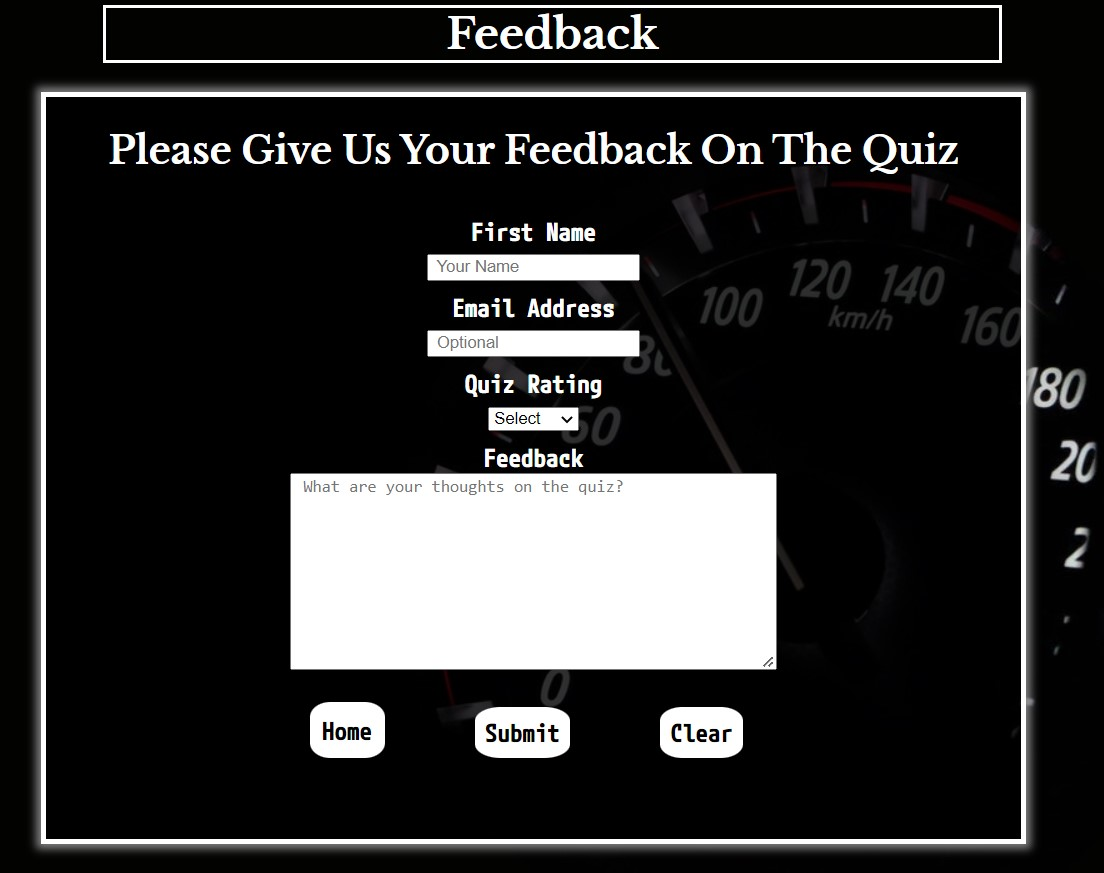
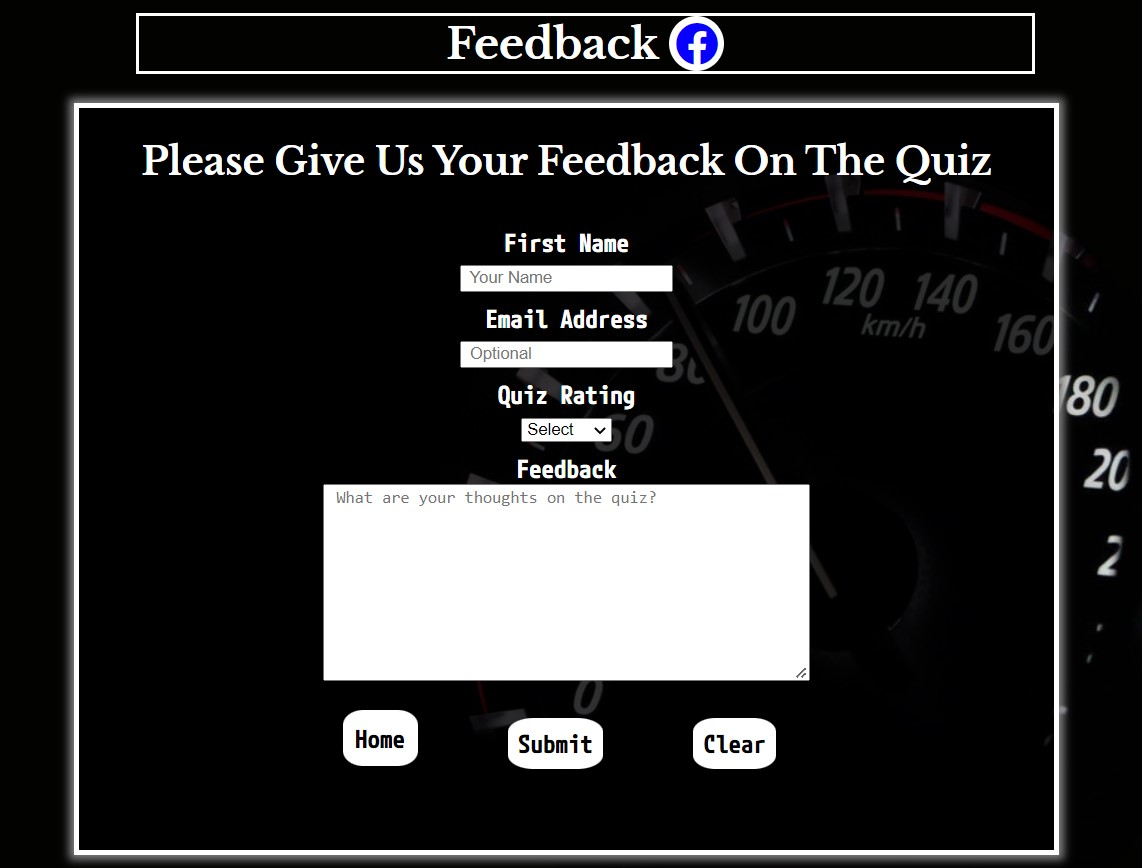
update readme with new images and fontawesome mention, fix feedback button postion

Changed region(s): [[0.0308, 0.0, 1.0, 0.9954], [0.6775, 0.2488, 0.7083, 0.28]]

diff --git a/assets/css/style.css b/assets/css/style.css
@@ -128,7 +128,7 @@ h1 {
 #feedback_button {
     background-color: white;
     position: absolute;
-    top: 2em;
+    top: 29em;
     left: 58%;
     padding: 10px;
     border-radius: 27%;

diff --git a/README.md b/README.md
@@ -165,7 +165,6 @@ Click [Here](https://help.github.com/en/github/creating-cloning-and-archiving-re
 <h2>Bugs & Fixes</h2>
 <ul>
    <li>W3C HTML picked up a br within a h2 and threw an error so fixed by removing the br from quiz.html.</li>
-
    <li>Mozilla Firefox - the home feedback and clear buttons were too high and cutting into the feedback form box, fixed by adjusting css.</li>
 </ul>
 
@@ -180,4 +179,5 @@ Click [Here](https://help.github.com/en/github/creating-cloning-and-archiving-re
     <li>My Mentors for their eagle eyes and feedback (mentor change during project)</li>
     <li>Used Form template from my <a href="https://github.com/Jca-Dev/First-Project/blob/main/contact.html" target="_blank" rel="noopener">First Project</a></li>
     <li>background image from <a href="https://www.pexels.com/" target="_blank" rel="noopener">Pexels</a></li>
+     <li>Icons from <a href="https://fontawesome.com/v5/search?m=free" target="_blank" rel="noopener">https://fontawesome.com/v5/search?m=free</a></li>
     <li>Gathered information and troubleshooting from <a href="https://stackoverflow.com/" target="_blank" rel="noopener">Stackoverflow</li>
